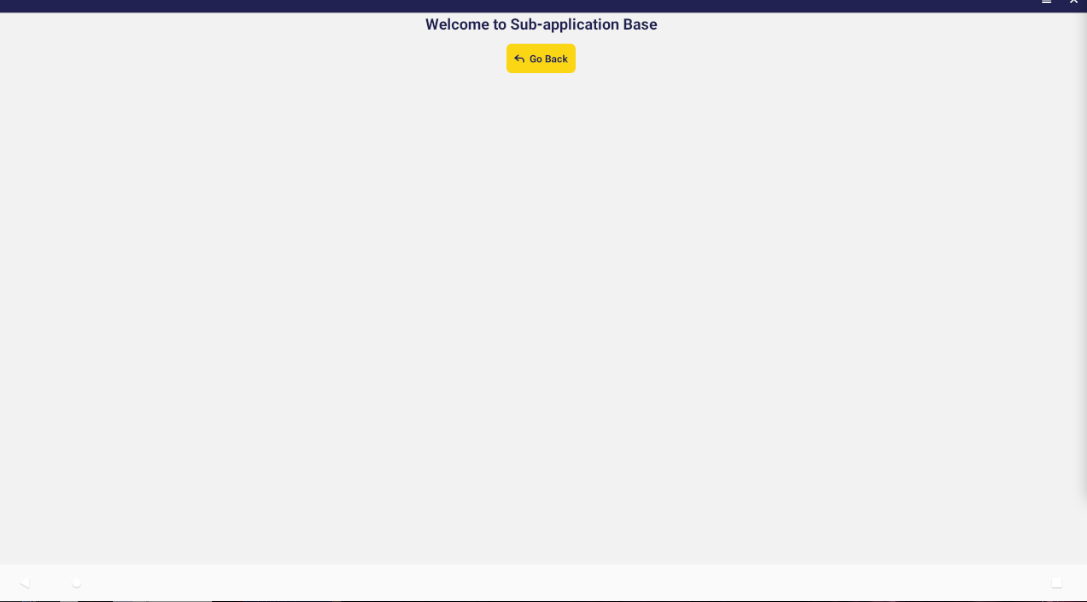
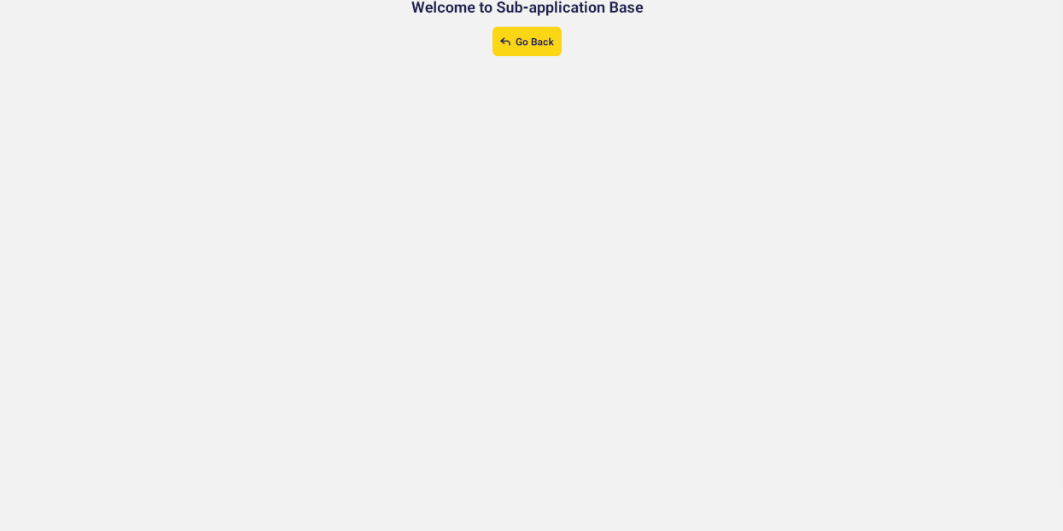
Feature EPL-1046: update images and sub-section in create-new-subapp

Changed region(s): [[0.0, 0.0, 1.0, 0.1205], [0.0, 0.9944, 1.0, 1.0]]

diff --git a/docs/developer-guide/etendo-mobile/tutorials/create-new-subapplication.md b/docs/developer-guide/etendo-mobile/tutorials/create-new-subapplication.md
@@ -7,14 +7,18 @@ This section provides a step-by-step guide on how to run a sub-application in de
 
 ## Fork the dummy application
 
-To start with it requires a fork of our dummy application [com.etendoerp.subapp.base](https://github.com/etendosoftware/com.etendoerp.subapp.base){target="_blank"} and clone it inside the modules folder in our Etendo environment.
+2. To start with it requires a fork of our dummy application [com.etendoerp.subapp.base](https://github.com/etendosoftware/com.etendoerp.subapp.base){target="_blank"} and clone it inside the modules folder in our Etendo environment.
     ``` bash title="Terminal"
     git@github.com:etendosoftware/com.etendoerp.subapp.base.git
     ```
 
+    ![modules.png](/assets/developer-guide/etendo-mobile/create-new-subapplication/modules.png)
 
-
-![modules.png](/assets/developer-guide/etendo-mobile/create-new-subapplication/modules.png)
+1. In a terminal in `modules/com.etendoerp.subapp.base/resources` to be able to install the depedencias delcaradas in the package.json and for it the following command would be executed.
+    Install the dependencies 
+    ``` bash title="Terminal"
+    yarn install 
+    ```
 
 ## Dynamic app window
 
@@ -29,7 +33,8 @@ This is a window where dynamic applications can be configured to open from the E
 
 ![dynamicapp-versio.png](/assets/developer-guide/etendo-mobile/create-new-subapplication/dynamicapp-version.png)
 
-In the Role window, the Admin role is found, in the "DYNAMIC APPS - Subapp" tab, the example record Subapp Example with dev version must be added.  
+It is necessary to give permissions to the Admin role to be able to see our application inside the Etendo Mobile application.
+From the Role window, look for the name Admin and in the "DYNAMIC APPS - Subapp" tab, add the example record Subapp Example with dev version.
 
 | Variable                | Description                                                      | Default Value                          |
 | ----------------------- | ---------------------------------------------------------------- | ------------------                     |
@@ -40,13 +45,11 @@ In the Role window, the Admin role is found, in the "DYNAMIC APPS - Subapp" tab,
 
 ![role-dynamicapp.png](/assets/developer-guide/etendo-mobile/create-new-subapplication/role-dynamicapp.png)
 
-## Customizing and Programming a Sub-Application
+## Main parts, files and Programming a Sub-Application
 
 In this section we will explain how to customize and program a sub-application. We will use our example of a product sub-application, which will allow us to manage the products of our company. This sub-application will have a list of products, a form to create, edit and a delete product.
 
 But first, we will explain the _main parts and files of the sub-application_ that we will use.
-
-### Main parts and files
 
 #### App.tsx
   This file is located in the _root_ of the sub-application and is the main file of the sub-application. In this file we will define the _routes_ of the sub-application and the components that will be rendered in each route. In addition, this file is responsible of the _initialization_ of the sub-application and gets the _params_ from Etendo Mobile.
@@ -178,16 +181,9 @@ _Storybook_ is a place where you can try and see all the components of the libra
 ## Development mode workflow
 ### Etendo Classic and Etendo Mobile
 
-1. To start in a terminal in `modules/com.etendoerp.subapp.base/resources` and will be executed the following command.
+1. Etendo Classic should be running.
 
-    Install the dependencies 
-    ``` bash title="Terminal"
-    yarn install 
-    ```
-
-2. Etendo Classic should be running.
-
-3. Open the Etendo Mobile application on a mobile device. You can use either an emulator or a physical device.
+2. Open the Etendo Mobile application on a mobile device. You can use either an emulator or a physical device.
 
 ### Rollup
 [Rollup](https://rollupjs.org/){target="_blank"} is a module packer for JavaScript that compiles small pieces of code into something larger and more complex, this is already installed in the module.
